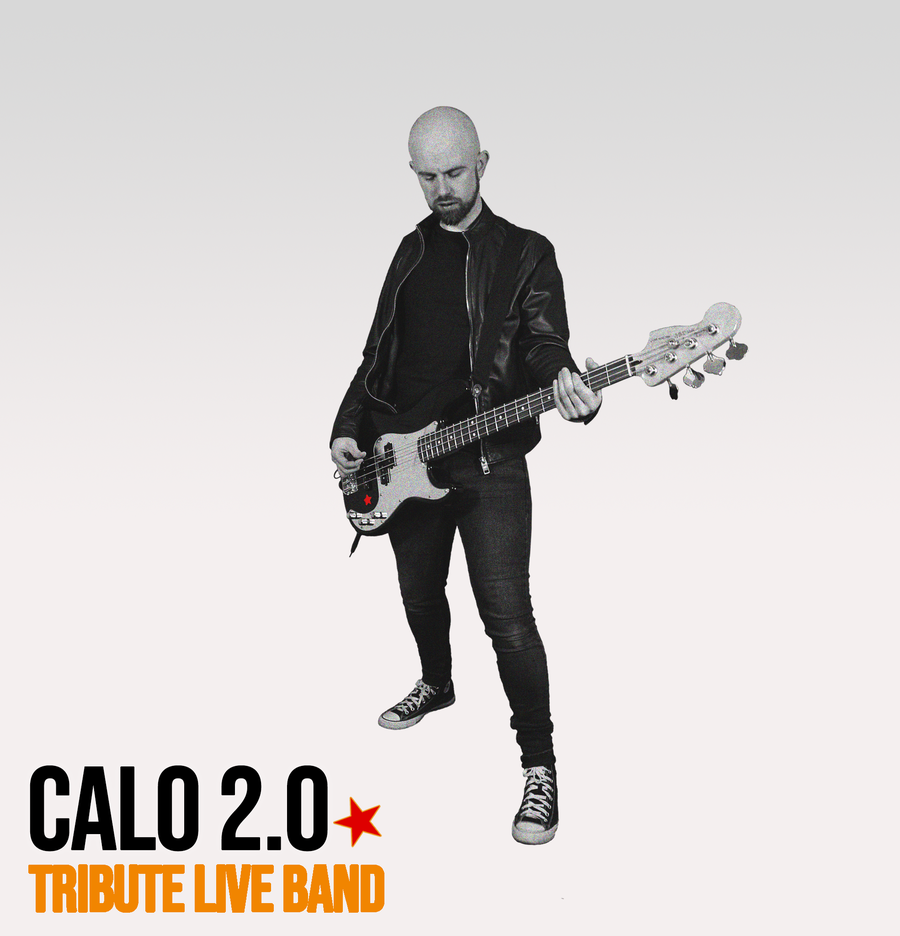
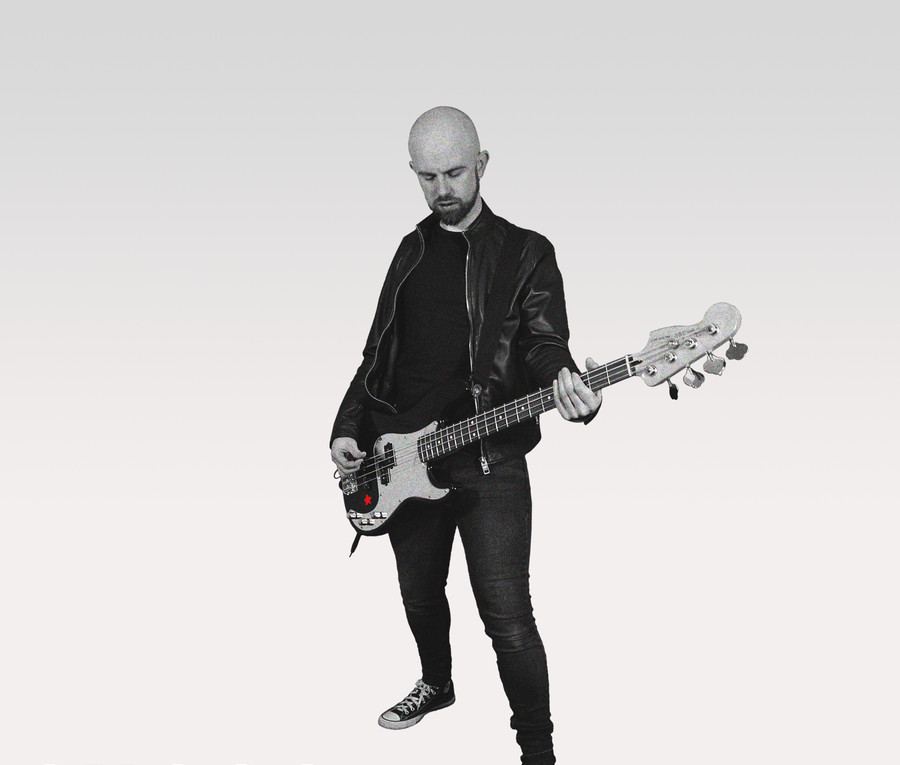
Add files via upload

Changed region(s): [[0.0311, 0.0902, 0.84, 1.0]]

diff --git a/galerie.html b/galerie.html
@@ -62,6 +62,9 @@
   .section-head{margin-bottom:26px;}
   .section-head .label{display:block; margin-bottom:8px;}
   .section-head h2{font-size:clamp(1.8rem, 4vw, 2.6rem);}
+  .video-group{margin-bottom:42px;}
+  .video-group:last-child{margin-bottom:0;}
+  .video-group h3{font-size:1.05rem; margin-bottom:16px; padding-left:14px; border-left:3px solid var(--amber);}
   .video-grid{display:grid; grid-template-columns:repeat(auto-fit, minmax(280px, 1fr)); gap:22px;}
   .video-card{background:var(--ink-2); border:1px solid var(--line); border-radius:16px; overflow:hidden;}
   .video-card .embed{position:relative; width:100%; aspect-ratio:16/9;}
@@ -135,40 +138,68 @@
   <div class="wrap">
     <div class="section-head">
       <span class="label">En vidéo</span>
-      <h2>Extraits de nos prestations</h2>
+      <h2>Nos artistes en vidéo</h2>
     </div>
-    <div class="video-grid">
-      <div class="video-card">
-        <div class="embed"><iframe src="https://www.youtube.com/embed/zY5Zkr5o0Ek" title="Tribute Calogero — Prendre Racine" allow="accelerometer; autoplay; clipboard-write; encrypted-media; gyroscope; picture-in-picture" allowfullscreen loading="lazy"></iframe></div>
-        <div class="caption">Tribute Calogero — Prendre Racine</div>
+
+    <div class="video-group">
+      <h3>Tribute Calogero</h3>
+      <div class="video-grid">
+        <div class="video-card">
+          <div class="embed"><iframe src="https://www.youtube.com/embed/zY5Zkr5o0Ek" title="Tribute Calogero — Prendre Racine" allow="accelerometer; autoplay; clipboard-write; encrypted-media; gyroscope; picture-in-picture" allowfullscreen loading="lazy"></iframe></div>
+          <div class="caption">Prendre Racine</div>
+        </div>
+        <div class="video-card">
+          <div class="embed"><iframe src="https://www.youtube.com/embed/oxmoT3FtSfs" title="Tribute Calogero — Yalla" allow="accelerometer; autoplay; clipboard-write; encrypted-media; gyroscope; picture-in-picture" allowfullscreen loading="lazy"></iframe></div>
+          <div class="caption">Yalla</div>
+        </div>
       </div>
-      <div class="video-card">
-        <div class="embed"><iframe src="https://www.youtube.com/embed/oxmoT3FtSfs" title="Tribute Calogero — Yalla" allow="accelerometer; autoplay; clipboard-write; encrypted-media; gyroscope; picture-in-picture" allowfullscreen loading="lazy"></iframe></div>
-        <div class="caption">Tribute Calogero — Yalla</div>
+    </div>
+
+    <div class="video-group">
+      <h3>The Best ABBA Tribute</h3>
+      <div class="video-grid">
+        <div class="video-card">
+          <div class="embed"><iframe src="https://www.youtube.com/embed/odv7OehzC1A" title="The Best ABBA Tribute — Teaser" allow="accelerometer; autoplay; clipboard-write; encrypted-media; gyroscope; picture-in-picture" allowfullscreen loading="lazy"></iframe></div>
+          <div class="caption">Teaser</div>
+        </div>
       </div>
-      <div class="video-card">
-        <div class="embed"><iframe src="https://www.youtube.com/embed/odv7OehzC1A" title="The Best ABBA Tribute — Teaser" allow="accelerometer; autoplay; clipboard-write; encrypted-media; gyroscope; picture-in-picture" allowfullscreen loading="lazy"></iframe></div>
-        <div class="caption">The Best ABBA Tribute — Teaser</div>
+    </div>
+
+    <div class="video-group">
+      <h3>The Fine Allies</h3>
+      <div class="video-grid">
+        <div class="video-card">
+          <div class="embed"><iframe src="https://www.youtube.com/embed/pCBTgx0PCPQ" title="The Fine Allies — Extrait de concert" allow="accelerometer; autoplay; clipboard-write; encrypted-media; gyroscope; picture-in-picture" allowfullscreen loading="lazy"></iframe></div>
+          <div class="caption">Extrait de concert</div>
+        </div>
       </div>
-      <div class="video-card">
-        <div class="embed"><iframe src="https://www.youtube.com/embed/pCBTgx0PCPQ" title="The Fine Allies — Extrait de concert" allow="accelerometer; autoplay; clipboard-write; encrypted-media; gyroscope; picture-in-picture" allowfullscreen loading="lazy"></iframe></div>
-        <div class="caption">The Fine Allies — Extrait de concert</div>
+    </div>
+
+    <div class="video-group">
+      <h3>NooN Coverband</h3>
+      <div class="video-grid">
+        <div class="video-card">
+          <div class="embed"><iframe src="https://www.youtube.com/embed/AxXP9Pd6tFs" title="NooN Coverband — Extrait de prestation" allow="accelerometer; autoplay; clipboard-write; encrypted-media; gyroscope; picture-in-picture" allowfullscreen loading="lazy"></iframe></div>
+          <div class="caption">Extrait de prestation</div>
+        </div>
+        <div class="video-card">
+          <div class="embed"><iframe src="https://www.youtube.com/embed/lz2G_UvzbSM" title="NooN Coverband — Extrait de prestation" allow="accelerometer; autoplay; clipboard-write; encrypted-media; gyroscope; picture-in-picture" allowfullscreen loading="lazy"></iframe></div>
+          <div class="caption">Extrait de prestation</div>
+        </div>
+        <div class="video-card">
+          <div class="embed"><iframe src="https://www.youtube.com/embed/h1sqE5CJxX4" title="NooN Coverband — Extrait de prestation" allow="accelerometer; autoplay; clipboard-write; encrypted-media; gyroscope; picture-in-picture" allowfullscreen loading="lazy"></iframe></div>
+          <div class="caption">Extrait de prestation</div>
+        </div>
       </div>
-      <div class="video-card">
-        <div class="embed"><iframe src="https://www.youtube.com/embed/AxXP9Pd6tFs" title="NooN Coverband — Extrait de prestation" allow="accelerometer; autoplay; clipboard-write; encrypted-media; gyroscope; picture-in-picture" allowfullscreen loading="lazy"></iframe></div>
-        <div class="caption">NooN Coverband — Extrait de prestation</div>
-      </div>
-      <div class="video-card">
-        <div class="embed"><iframe src="https://www.youtube.com/embed/lz2G_UvzbSM" title="NooN Coverband — Extrait de prestation" allow="accelerometer; autoplay; clipboard-write; encrypted-media; gyroscope; picture-in-picture" allowfullscreen loading="lazy"></iframe></div>
-        <div class="caption">NooN Coverband — Extrait de prestation</div>
-      </div>
-      <div class="video-card">
-        <div class="embed"><iframe src="https://www.youtube.com/embed/h1sqE5CJxX4" title="NooN Coverband — Extrait de prestation" allow="accelerometer; autoplay; clipboard-write; encrypted-media; gyroscope; picture-in-picture" allowfullscreen loading="lazy"></iframe></div>
-        <div class="caption">NooN Coverband — Extrait de prestation</div>
-      </div>
-      <div class="video-card">
-        <div class="embed"><iframe src="https://www.youtube.com/embed/QyU9YqfbgFM" title="Alchimie — Teaser reprises Pop Rock" allow="accelerometer; autoplay; clipboard-write; encrypted-media; gyroscope; picture-in-picture" allowfullscreen loading="lazy"></iframe></div>
-        <div class="caption">Alchimie — Teaser reprises Pop Rock</div>
+    </div>
+
+    <div class="video-group">
+      <h3>Alchimie</h3>
+      <div class="video-grid">
+        <div class="video-card">
+          <div class="embed"><iframe src="https://www.youtube.com/embed/QyU9YqfbgFM" title="Alchimie — Teaser reprises Pop Rock" allow="accelerometer; autoplay; clipboard-write; encrypted-media; gyroscope; picture-in-picture" allowfullscreen loading="lazy"></iframe></div>
+          <div class="caption">Teaser reprises Pop Rock</div>
+        </div>
       </div>
     </div>
   </div>

diff --git a/calo-2-0.html b/calo-2-0.html
@@ -224,8 +224,8 @@
 
 <section>
   <div class="wrap tight">
-    <div class="banner-photo" style="padding:0; overflow:hidden; border-radius:20px; aspect-ratio:2/3; max-width:460px; margin:0 auto; background:var(--ink-2);">
-      <img src="calo2-0-photo-1.png" alt="Tribute Calogero — Nicolas" style="width:100%; height:100%; object-fit:cover; object-position:top;">
+    <div class="banner-photo" style="padding:0; overflow:hidden; border-radius:20px; aspect-ratio:900/765; max-width:620px; margin:0 auto; background:var(--ink-2);">
+      <img src="calo2-0-photo-1.png" alt="Tribute Calogero — Nicolas" style="width:100%; height:100%; object-fit:cover; object-position:center;">
     </div>
   </div>
 </section>

diff --git a/cgv-boutique.html b/cgv-boutique.html
@@ -31,7 +31,7 @@
     <h2>1. Vendeur</h2>
     <p>
       SLP — Sound Light Prod, SARL<br>
-      RCS Paris 130 415 045 — 173 rue de Courcelles, 75017 Paris<br>
+      SIRET 130 415 045 00017 — Code APE 9001Z — 173 rue de Courcelles, 75017 Paris<br>
       Email : <a href="mailto:contact@soundlightprod.fr">contact@soundlightprod.fr</a> — Tél : 06 31 94 96 53
     </p>
   </section>
